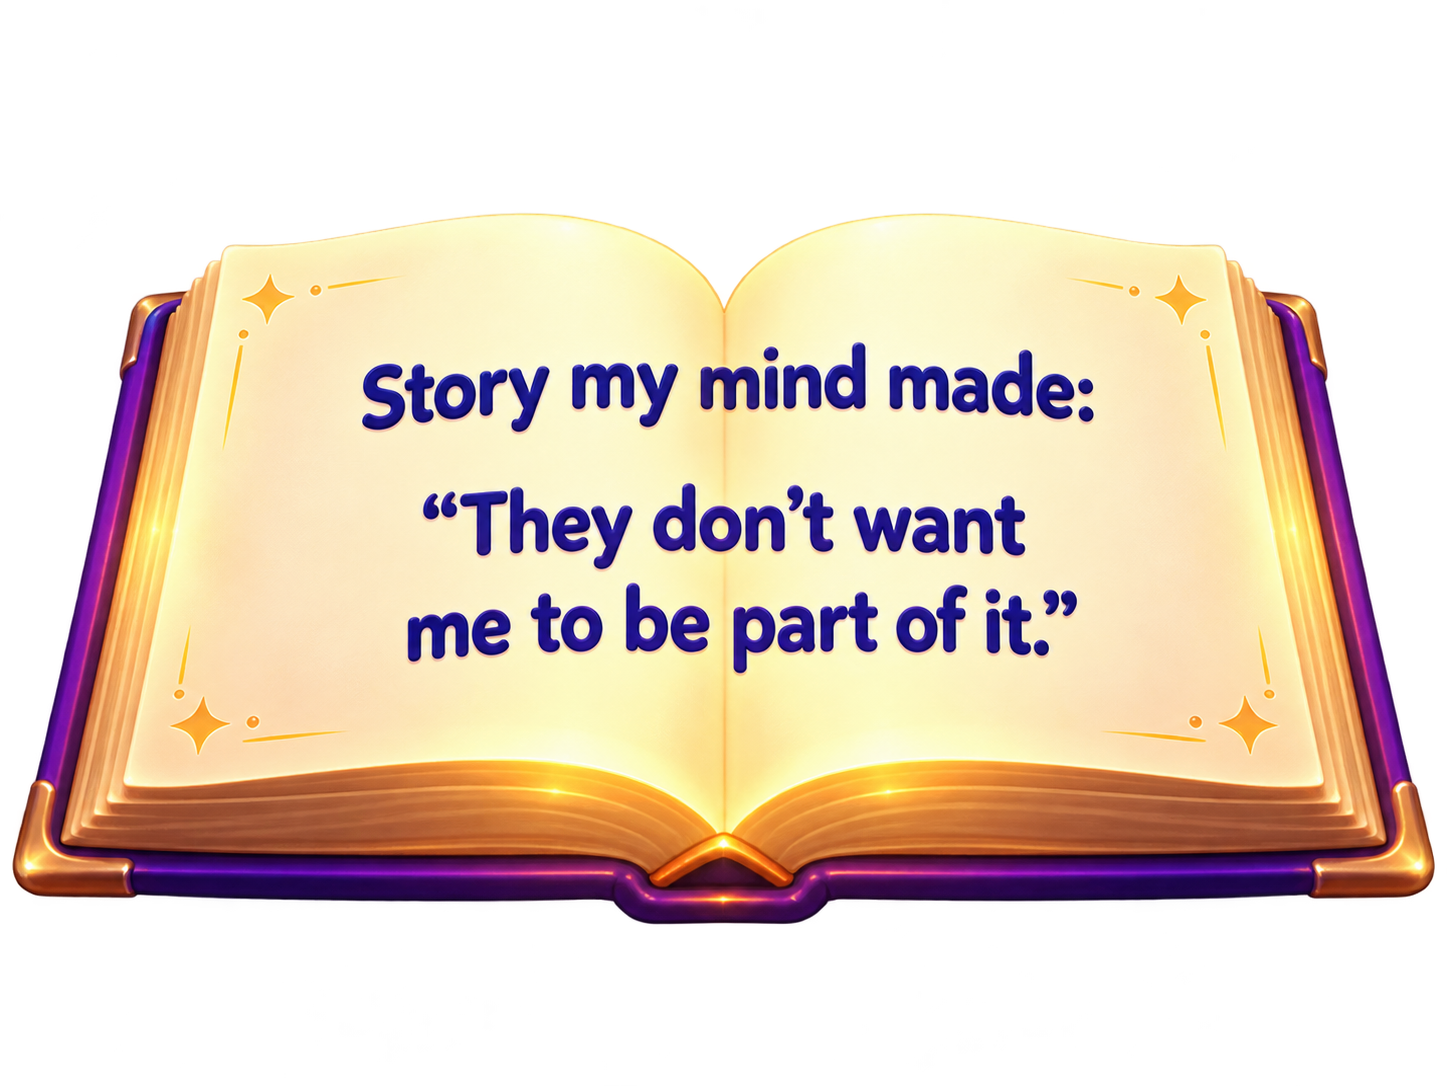
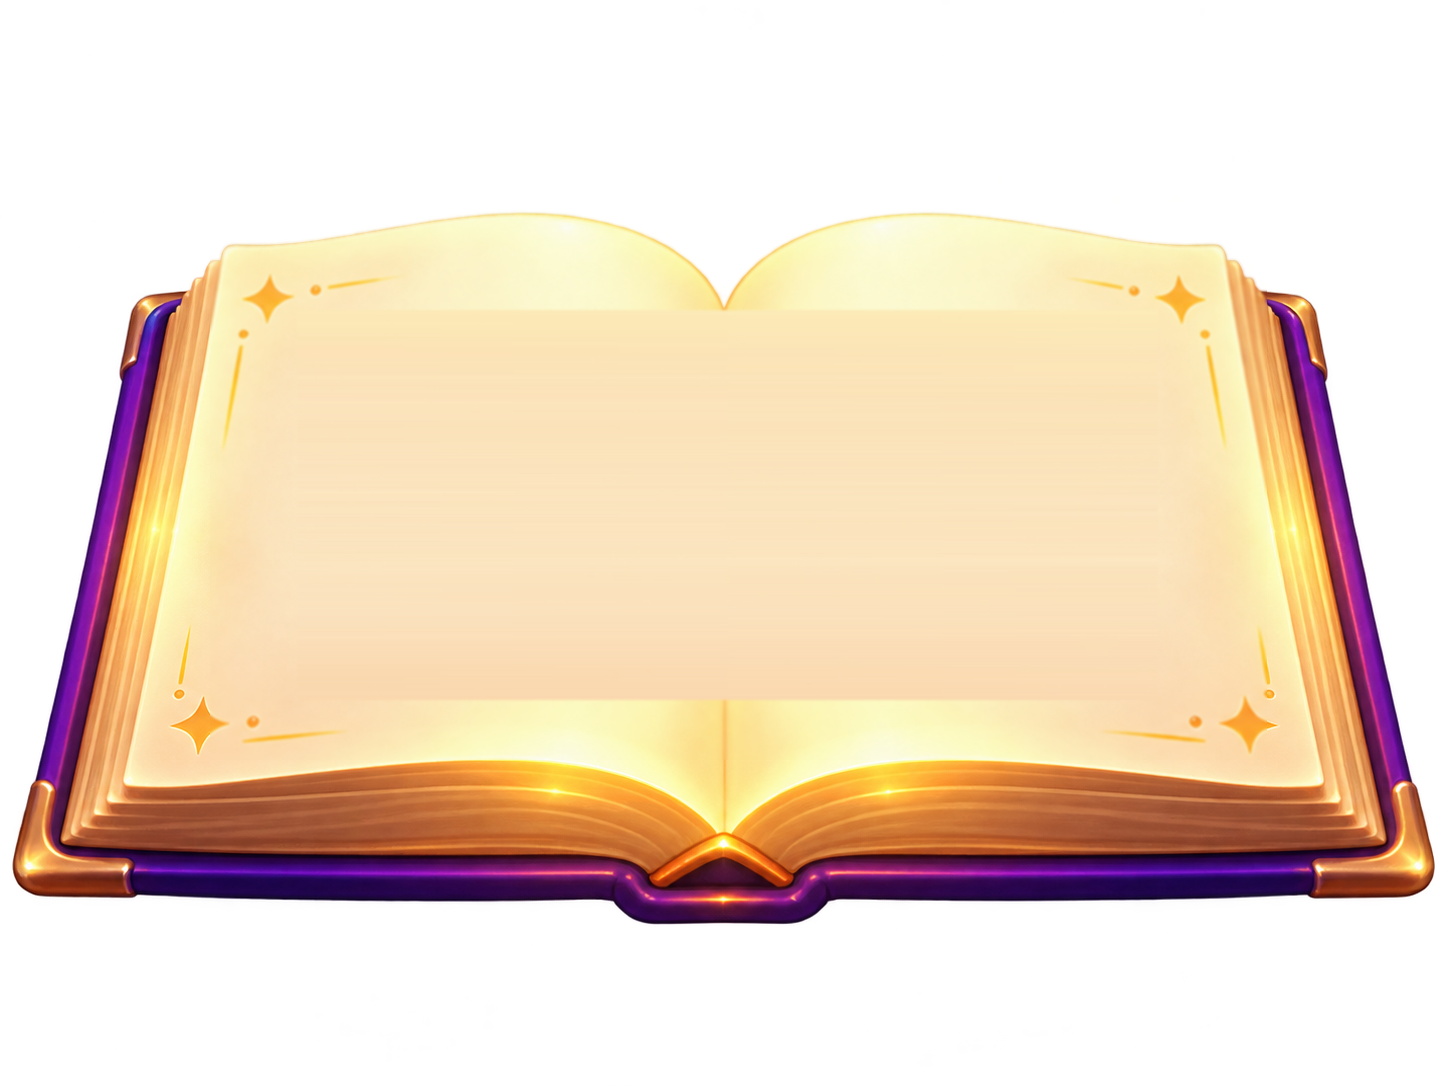
Story Lab: clear the book's printed story, and unstack the four badges
Driving the walk in a browser rather than trusting the build: the Story panel
was rendering its redesign all along, and rendering it wrong. Two faults, both
visible the moment the panel is actually reached.

THE BOOK CARRIED ITS OWN STORY. story-book-open.png ships from the handoff with
a sample set across its pages -- "Story my mind made: / They don't want me to be
part of it." -- and the panel draws the CHILD'S story over the top of it. Two
stories in the same place, neither readable. scripts/clear-story-book-text.mjs
wipes the plate back to blank paper: the lettering is blue ink on a cream
gradient so it lifts by colour, and the text block is then repainted with a
gradient interpolated from the page either side of it, which takes the glyphs'
highlights and drop shadows too. The gold corners, the sparkles and the binding
are untouched. It is the rule the Reflection Path handoff states outright --
a plate is a frame, never a carrier for a child's words.

THE BADGES SAT ON EACH OTHER. Feeling and Body were pinned to the vertical
middle at 28% wide, and at the panel's real size they covered the Thought and
What-happened clouds above them, so both were cut in half. The clouds go to the
top edge, the circles drop below their midpoint, and all four shrink enough to
leave air between them -- four separate corners around the bubble, as the sheet
draws it.

Claude-Session: https://claude.ai/code/session_014AVfY6Mgz5ybUjCoTJHYm6

diff --git a/src/features/practise/kids-v1/best/StoryLabRoom.css b/src/features/practise/kids-v1/best/StoryLabRoom.css
@@ -523,3 +523,32 @@
 /* Reflection Path CTA after journey save */
 .sl-stop .sl-reflection-cta{background:linear-gradient(135deg,#7c3aed,#4c1d95);border-color:#a78bfa;animation:rpCtaGlow 2s ease-in-out infinite alternate}
 @keyframes rpCtaGlow{from{box-shadow:0 0 12px rgba(124,58,237,0.4)}to{box-shadow:0 0 26px rgba(124,58,237,0.75)}}
+
+/*
+  THE STORY SCENE, SPACED LIKE THE SHEET.
+
+  First pass put the two round badges at the vertical middle and the two cloud
+  badges at 4% — and at the panel's real size those overlap, so "Thought" and
+  "What happened" were being cut in half by the Feeling and Body circles
+  sitting on top of them. The sheet keeps four clearly separate corners around
+  the bubble, so the clouds go to the top edge, the circles drop below their
+  midpoint, and everything shrinks enough to leave air between them.
+*/
+.sl-scene-center{min-height:196px}
+.sl-scene-bubble{width:46%}
+.sl-badge{max-width:27%;padding:4px 6px}
+.sl-badge-thought,.sl-badge-event{top:0}
+.sl-badge-feeling,.sl-badge-body{top:62%;width:24%;max-width:24%}
+
+/*
+  THE BOOK IS A FRAME AND NOTHING ELSE NOW.
+
+  story-book-open.png shipped with a sample story set across its pages, and the
+  panel drew the child's own story over the top of it — two stories in the same
+  place, neither readable. scripts/clear-story-book-text.mjs wipes the plate
+  back to blank paper; this keeps the live text inside the flat part of the
+  page, above the fanned block at the foot.
+*/
+.sl-book-text{top:22%;bottom:32%;left:19%;right:19%;gap:2px}
+.sl-book-heading{font-size:9px;letter-spacing:.2px}
+.sl-book-quote{font-size:11.5px;-webkit-line-clamp:3}
